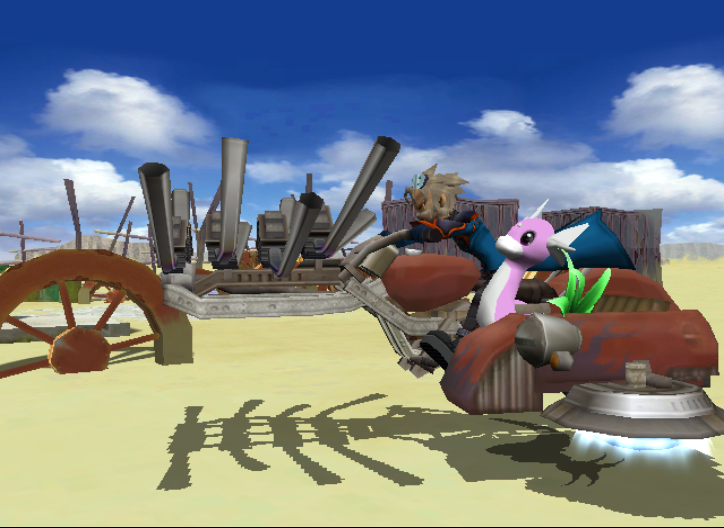
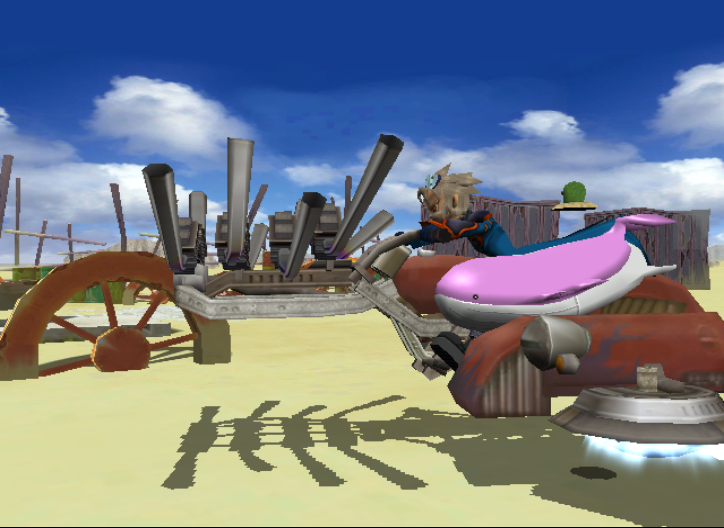
Keep extreme starter sizes visible in the motorcycle arrival

diff --git a/orre_randomizer/engine/plusle_actor.py b/orre_randomizer/engine/plusle_actor.py
@@ -41,7 +41,8 @@ def _model_resource(toc: bytes, group: int) -> str:
     raise FormatError("story Pokémon model archive was not found")
 
 
-def _field_model(pkx: bytes, *, header_size: int = 0x40, scale: float = 1.0, recipe=None) -> bytes:
+def _field_model(pkx: bytes, *, header_size: int = 0x40, scale: float = 1.0, recipe=None,
+                 attachment_lift: float | None = None) -> bytes:
     # Movement and emote slots in battle models contain species-specific
     # attacks. Reuse the species' idle motion for the field actor.
     dat = pkx[header_size:]
@@ -64,7 +65,19 @@ def _field_model(pkx: bytes, *, header_size: int = 0x40, scale: float = 1.0, rec
     check_range(data, model, 16, "story Pokémon model set")
     if recipe is not None:
         tint_field_model(data, relocations, model, recipe)
-    if scale != 1.0:
+    if attachment_lift is not None:
+        # The attachment system sets the outer joint's transform every frame.
+        # Keep the seat offset and scale on a separate classical-scale joint
+        # so every bone inherits them and the original skeleton stays intact.
+        child = u32(data, model)
+        for size, lift in ((scale, attachment_lift), (1.0, 0.0)):
+            parent = len(data)
+            data.extend(struct.pack(">5I9f2I", 0, 8, child, 0, 0, 0, 0, 0,
+                                    size, size, size, 0, lift, 0, 0, 0))
+            relocations.add(parent + 8)
+            child = parent
+        struct.pack_into(">I", data, model, child)
+    elif scale != 1.0:
         root = u32(data, model)
         check_range(data, root + 0x20, 12, "story Pokémon model root scale")
         values = struct.unpack_from(">3f", data, root + 0x20)
@@ -84,6 +97,14 @@ def _field_model(pkx: bytes, *, header_size: int = 0x40, scale: float = 1.0, rec
             continue
         if idle >= data_size or field not in relocations or table not in relocations:
             raise FormatError("invalid story Pokémon idle motion pointer")
+        if attachment_lift is not None:
+            # HSD walks the joint, material and shape trees in parallel.
+            tail = struct.pack(">4I", 0, 0, 0, 1) if field == model + 4 else bytes(8)
+            for _ in range(2):
+                parent = len(data)
+                data.extend(struct.pack(">I", idle) + tail)
+                relocations.add(parent)
+                idle = parent
         start = len(data)
         struct.pack_into(">I", data, field, start)
         data.extend(struct.pack(">I", idle) * _FIELD_MOTIONS + bytes(4))
@@ -97,7 +118,8 @@ def _field_model(pkx: bytes, *, header_size: int = 0x40, scale: float = 1.0, rec
 
 
 def load_actor_model(dol: bytes, game_id: str, model_id: int, archive: Callable[[str], bytes],
-                     *, scale: float = 1.0, shiny: bool = False) -> bytes:
+                     *, scale: float = 1.0, shiny: bool = False,
+                     attachment_lift: float | None = None) -> bytes:
     xd = game_id in _XD_MODEL_TABLE
     if xd:
         table = _XD_MODEL_TABLE[game_id]
@@ -142,7 +164,8 @@ def load_actor_model(dol: bytes, game_id: str, model_id: int, archive: Callable[
     header_size = (len(pkx) - u32(pkx, 0)) & ~31 if xd else 0x40
     if xd and (header_size < 0x40 or u32(pkx, header_size) != u32(pkx, 0)):
         raise FormatError("unexpected XD Pokémon DAT offset")
-    return _field_model(pkx, header_size=header_size, scale=scale, recipe=recipe)
+    return _field_model(pkx, header_size=header_size, scale=scale, recipe=recipe,
+                        attachment_lift=attachment_lift)
 
 
 def patch_actor(source: bytes, model: bytes, *, identifier: str = _ACTOR_ID, name: str = "prasle_b1") -> bytes:

diff --git a/orre_randomizer/engine/starter_arrival.py b/orre_randomizer/engine/starter_arrival.py
@@ -7,7 +7,7 @@ from .analyze_game import FormatError, parse_fsys, u32
 from .dol_regions import dol_layout, special_targets
 from .event_gifts import _call, _fingerprint, _POP, _push, _statement
 from .inspect_tables import u16
-from .plusle_actor import companion_scale, load_actor_model
+from .plusle_actor import OVERSIZED_FIELD_SPECIES, companion_scale, load_actor_model
 from .randomize_trainers import layout
 from .rebuild_iso import decoded_member
 from .species_rules import species_catalog
@@ -45,13 +45,11 @@ def _patch_program(source, actors):
     struct.pack_into(">I", code, _BIKE_OPERAND, _BIKE_ALIAS)
     load, unload = bytearray(), bytearray()
     group, bike = _read_local(3), _read_local(6)
-    zero = b"\x08\x03" + bytes(4)
-    for slot, (resource, lift) in actors.items():
+    for slot, resource in actors.items():
         local = 7 + slot
         actor = _read_local(local)
         load.extend(_push(local) + _call(112, resource) + b"\x1f\x82\x02" + _POP)
         load.extend(_statement(70, group, actor, group, bike, _RIDERS[slot][0]))
-        load.extend(_statement(59, group, actor, zero, b"\x08\x03" + struct.pack(">f", lift), zero))
         load.extend(_statement(115, actor, 0, 0, 1))
         unload.extend(_statement(113, actor))
     for offset, block in ((_BEFORE_CAMERA_WAIT, load), (_BEFORE_BIKE_CLOSE, unload)):
@@ -85,6 +83,7 @@ def patch_starter_arrival(original_dol, dol, rel, read_archive, shiny_decisions,
     catalog = species_catalog(rel, layout(rel)[0])
     game = dol_layout(original_dol).game_id
     models, actors, report = {}, {}, []
+    front_is_large = False
     for slot, (species, shiny) in chosen.items():
         if species not in catalog:
             raise FormatError("invalid starter species for Outskirt Stand")
@@ -94,11 +93,17 @@ def patch_starter_arrival(original_dol, dol, rel, read_archive, shiny_decisions,
         # tighter field limits for especially wide or long battle models.
         height = max(1, u16(rel, row["offset"] + 0x0A))
         scale = min(companion_scale(national, 0.7), 0.7 * min(1.0, 18 / height))
-        lift = 0.24 + max(0, 9 - height) / 10
+        # The motorcycle's joints use scene units (roughly one decimeter).
+        # Raise short riders, with extra clearance behind a broad front rider.
+        lift = max(0, 8 - height) * 5 / 6
+        if slot == 1 and front_is_large:
+            lift += 3.5
+        if slot == 0:
+            front_is_large = national in OVERSIZED_FIELD_SPECIES or height > 18
         payload = load_actor_model(original_dol, game, u32(rel, row["offset"] + 0x2C),
-                                   read_archive, scale=scale, shiny=shiny)
+                                   read_archive, scale=scale, shiny=shiny, attachment_lift=lift)
         resource = 0x7DF00400 + (slot << 16)
-        actors[slot] = resource, lift
+        actors[slot] = resource
         models[resource] = f"orre_intro_starter_{slot + 1}", payload
         for length in _RIDERS[slot][1]:
             struct.pack_into(">H", hidden, length, 0)

diff --git a/tests/test_plusle_actor.py b/tests/test_plusle_actor.py
@@ -40,6 +40,23 @@ class FieldModelTests(unittest.TestCase):
         with self.assertRaisesRegex(FormatError, "no idle motion"):
             _field_model(bytes(model))
 
+    def test_attachment_keeps_scaling_separate_from_the_root_and_idle(self):
+        field = _field_model(_model_fixture(), scale=0.125, attachment_lift=0.75)
+        joints = field[0x20:0x20 + u32(field, 4)]
+        outer = u32(joints, 8)
+        scaled = u32(joints, outer + 8)
+        self.assertEqual(u32(joints, scaled + 8), 0x34)
+        self.assertEqual(struct.unpack_from(">3f", joints, outer + 0x20), (1.0,) * 3)
+        self.assertEqual(struct.unpack_from(">3f", joints, scaled + 0x20), (0.125,) * 3)
+        self.assertEqual(struct.unpack_from(">3f", joints, scaled + 0x2C), (0.0, 0.75, 0.0))
+        relocations = set(struct.unpack_from(f">{u32(field, 8)}I", field, 0x20 + len(joints)))
+        self.assertTrue({outer + 8, scaled + 8} <= relocations)
+        for pointer_field, idle in ((12, 0x38), (16, 0x3C)):
+            animation = u32(joints, u32(joints, pointer_field))
+            child = u32(joints, animation)
+            self.assertEqual(u32(joints, child), idle)
+            self.assertTrue({animation, child} <= relocations)
+
     @unittest.skipUnless(Path("game/files/M2_guild_1F_1.fsys").is_file(),
                          "requires the local original PAL Colosseum files")
     def test_pyrite_room_preserves_other_resources_and_actor_id(self):

diff --git a/README.md b/README.md
@@ -105,10 +105,11 @@ appears at the Cave Poké Spot and keeps its color when the battle starts.
 | ![Shiny Wailord on the field at the Cave Poké Spot](docs/images/xd-pokespot-shiny-field.png) | ![The same shiny Wailord in battle](docs/images/xd-pokespot-shiny-battle.png) |
 
 In Colosseum, the arrival at Outskirt Stand shows the randomized starters
-in the sidecar. This run uses shiny Dratini and Oddish. The prerecorded
-opening movie uses the original footage.
+in the sidecar. This run pairs a scaled-down shiny Wailord with a raised
+shiny Diglett so both are visible. The prerecorded opening movie uses the
+original footage.
 
-![Shiny Dratini and Oddish in the sidecar at Outskirt Stand](docs/images/colosseum-motorcycle-starters.png)
+![Shiny Wailord and Diglett arriving by motorcycle at Outskirt Stand](docs/images/colosseum-motorcycle-starters.png)
 
 ## What you can customize
 

diff --git a/docs/reverse-engineering/STORY_GIFT_SCENES.md b/docs/reverse-engineering/STORY_GIFT_SCENES.md
@@ -96,7 +96,9 @@ motorcycle resource, hides the replaced riders' geometry, and attaches the
 selected models to the original joints. The script closes the new actors
 before closing the motorcycle and keeps the native camera and animation.
 The retail Pokédex height sets the scale cap and vertical offset for each
-rider. The sidecar can still obscure part of a short Pokémon.
+rider. The attachment updates the outer joint's transform every frame.
+An unanimated child joint applies the scale and the seat offset without
+altering the original skeleton or motion.
 Shiny models use the seed's starter decisions or the guaranteed shiny rule.
 When shininess is rolled during play, the arrival uses the regular palette.
 
